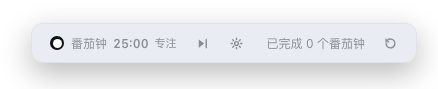
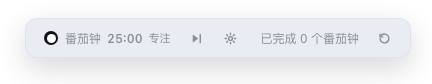
fix: keep reveal card height constant; light-theme preview with accurate colors

diff --git a/client.js b/client.js
@@ -318,7 +318,7 @@ window.__ModuleLoader__.load({
       'opacity:0;animation:dshPomoHalo 1.4s ease-out .55s both;}',
       '.dshPomo_box{position:relative;width:92px;height:92px;animation:dshPomoShake .58s ease-in-out both;}',
       '.dshPomo_boxOpened .dshPomo_box{animation:dshPomoShake .58s ease-in-out both,',
-      'dshPomoVanish .22s ease-in .58s both;}',
+      'dshPomoVanish .26s ease-in both;}',
       '.dshPomo_lid{position:absolute;left:50%;top:6px;width:84px;height:24px;margin-left:-42px;',
       'border-radius:9px 9px 5px 5px;background:var(--dsh-pomo-accent);',
       'box-shadow:inset 0 -3px 0 rgba(0,0,0,.16),inset 0 2px 0 rgba(255,255,255,.28);}',
@@ -332,10 +332,10 @@ window.__ModuleLoader__.load({
       'margin-left:-6px;background:rgba(255,255,255,.42);}',
       '.dshPomo_base::after{content:"";position:absolute;left:6px;right:6px;top:22px;height:12px;',
       'border-radius:4px;background:rgba(255,255,255,.42);}',
-      '.dshPomo_boxOpened .dshPomo_lid{animation:dshPomoLid .44s cubic-bezier(.25,.9,.35,1.15) .58s both;}',
+      '.dshPomo_boxOpened .dshPomo_lid{animation:dshPomoLid .44s cubic-bezier(.25,.9,.35,1.15) both;}',
       '.dshPomo_emoji{position:absolute;font-size:54px;line-height:1;opacity:0;',
       'filter:drop-shadow(0 8px 14px rgba(0,0,0,.2));',
-      'animation:dshPomoItem .56s cubic-bezier(.2,.9,.3,1.5) .68s both;}',
+      'animation:dshPomoItem .56s cubic-bezier(.2,.9,.3,1.5) both;}',
       '.dshPomo_spark{position:absolute;left:50%;top:50%;font-size:18px;line-height:1;opacity:0;',
       'animation:dshPomoSpark 1s ease-out var(--dsh-pomo-delay,0s) both;}',
       '.dshPomo_spark:nth-child(2n){font-size:13px;}',
@@ -348,6 +348,15 @@ window.__ModuleLoader__.load({
       'border:1px solid color-mix(in srgb,var(--dsh-pomo-accent) 34%,transparent);}',
       '.dshPomo_name{margin:10px 0 0;font-size:19px;font-weight:700;line-height:26px;}',
       '.dshPomo_desc{margin:5px 0 0;font-size:13px;line-height:19px;color:var(--dsw-alias-label-secondary);}',
+      /* Both states occupy the same grid cell, so the card never changes
+         height when the reveal stage switches. Only visibility cross-fades. */
+      '.dshPomo_reveal{display:grid;align-items:start;}',
+      '.dshPomo_reveal>*{grid-area:1/1;}',
+      '.dshPomo_waiting{margin:0;font-size:13px;line-height:19px;color:var(--dsw-alias-label-secondary);',
+      'transition:opacity .22s ease;}',
+      '.dshPomo_waitingGone{opacity:0;visibility:hidden;}',
+      '.dshPomo_body{transition:opacity .3s ease;}',
+      '.dshPomo_bodyPending{opacity:0;visibility:hidden;}',
       '.dshPomo_meta{display:flex;flex-wrap:wrap;align-items:center;justify-content:center;gap:6px;margin:12px 0 0;}',
       '.dshPomo_tag{padding:2px 8px;border-radius:999px;font-size:11px;font-weight:600;',
       'color:var(--dsw-alias-label-secondary);background:var(--dsw-alias-bg-layer-2);}',
@@ -383,7 +392,8 @@ window.__ModuleLoader__.load({
       '25%{opacity:1}100%{opacity:0;transform:translate(var(--dsh-pomo-x,0),var(--dsh-pomo-y,-58px)) scale(1.05)}}',
       '@media (prefers-reduced-motion:reduce){.dshPomo_box,.dshPomo_boxOpened .dshPomo_box,',
       '.dshPomo_boxOpened .dshPomo_lid,.dshPomo_emoji,.dshPomo_halo,.dshPomo_burst,.dshPomo_spark,',
-      '.dshPomo_card,.dshPomo_scrim{animation-duration:1ms!important;animation-delay:0ms!important;}}',
+      '.dshPomo_card,.dshPomo_scrim{animation-duration:1ms!important;animation-delay:0ms!important;',
+      '.dshPomo_body,.dshPomo_waiting{transition-duration:0ms!important;}}',
     ].join('');
 
     function PomodoroStyles() {
@@ -1048,14 +1058,19 @@ window.__ModuleLoader__.load({
             className: 'dshPomo_spark',
             'aria-hidden': true,
             style: {
-              '--dsh-pomo-delay': (0.72 + index * 0.05) + 's',
+              '--dsh-pomo-delay': (0.06 + index * 0.05) + 's',
               '--dsh-pomo-x': Math.round(Math.cos((index / SPARKS.length) * Math.PI * 2) * 66) + 'px',
               '--dsh-pomo-y': Math.round(Math.sin((index / SPARKS.length) * Math.PI * 2) * 54 - 10) + 'px',
             },
           }, spark))
           : null),
-      revealed
-        ? h('div', { className: 'dshPomo_body' },
+      h('div', { className: 'dshPomo_reveal' },
+        h('p', { className: 'dshPomo_waiting' + (revealed ? ' dshPomo_waitingGone' : '') },
+          t('box.waiting')),
+        h('div', {
+          className: 'dshPomo_body' + (revealed ? '' : ' dshPomo_bodyPending'),
+          'aria-hidden': revealed ? undefined : 'true',
+        },
           h('span', { className: 'dshPomo_tier' }, t('tier.' + pending.tier)),
           h('h2', { className: 'dshPomo_name', id: 'dshPomoBoxName' }, t('item.' + item.id + '.name')),
           h('p', { className: 'dshPomo_desc' }, t('item.' + item.id + '.description')),
@@ -1082,8 +1097,7 @@ window.__ModuleLoader__.load({
                 props.hidePomodoro();
               },
             }, t('action.archive'))),
-          h('p', { className: 'dshPomo_foot' }, t('box.subtitle')))
-        : h('p', { className: 'dshPomo_desc' }, t('box.waiting'))));
+          h('p', { className: 'dshPomo_foot' }, t('box.subtitle'))))));
     }
 
     /* ── client entry ────────────────────────────────────────────────── */

diff --git a/tools/render-preview.py b/tools/render-preview.py
@@ -5,8 +5,7 @@ Nothing here is hand-drawn. The page loads this repository's client.js,
 executes its real factory with a tiny React/DOM shim, and renders the real
 PomodoroDock, PomodoroBox and CollectionGrid components with the real CSS,
 real locale strings, real SVG icons and the real Harness theme tokens
-extracted from app.asar (light: body[data-ds-light-theme], dark:
-body[data-ds-dark-theme]).
+extracted from app.asar (body[data-ds-light-theme]).
 
 The GIF is a three-shot cut, all from those components:
 
@@ -27,9 +26,10 @@ import argparse
 import concurrent.futures
 import os
 import pathlib
-import shutil
 import subprocess
 import sys
+import tempfile
+import threading
 
 ROOT = pathlib.Path(__file__).resolve().parent.parent
 BUILD = ROOT / "build" / "preview-frames"
@@ -87,7 +87,7 @@ body{
   background:var(--dsw-alias-bg-overlay);
   border:1px solid var(--dsw-alias-border-l1);
   border-radius:12px;padding:5px 9px;
-  box-shadow:0 10px 30px rgba(0,0,0,.28);
+  box-shadow:0 10px 30px rgba(0,0,0,.16);
 }
 body.scene-dock #dockHost{top:50%;bottom:auto;transform:translateY(-50%) scale(1.55);}
 body.scene-box #dockHost{z-index:90;opacity:.6;}
@@ -97,7 +97,7 @@ body.scene-gallery #galleryHost{
   width:380px;box-sizing:border-box;padding:14px 16px;border-radius:16px;
   background:var(--dsw-alias-bg-overlay);
   border:1px solid var(--dsw-alias-border-l1);
-  box-shadow:0 20px 60px rgba(0,0,0,.45);
+  box-shadow:0 20px 60px rgba(0,0,0,.20);
 }
 body.scene-gallery #dockHost{bottom:26px;}
 body.scene-dockshot #dockHost{bottom:26px;}
@@ -269,11 +269,12 @@ MOCK_JS = r"""
         takePomodoro: noop, hidePomodoro: noop,
       }), document.body, false);
 
-      // Freeze every shipped keyframe at the requested time. Card / scrim /
-      // halo / burst start when the card mounts; the rest restart at the
-      // 680ms stage switch, exactly as the real component does.
+      // Freeze every shipped animation at the requested time. Scrim / card /
+      // halo / burst / shake start when the card mounts; lid / vanish / item
+      // / sparks start at the 680ms stage switch, as in the real component.
       document.body.offsetHeight;
-      const globalNames = ['dshPomoFade', 'dshPomoCard', 'dshPomoHalo', 'dshPomoBurst'];
+      const globalNames = ['dshPomoFade', 'dshPomoCard', 'dshPomoHalo',
+                           'dshPomoBurst', 'dshPomoShake'];
       const local = opts.t >= 680 ? opts.t - 680 : opts.t;
       document.getAnimations().forEach(function (anim) {
         anim.pause();
@@ -299,7 +300,7 @@ FRAME_TEMPLATE = """<!doctype html>
   const p = new URLSearchParams(location.hash.slice(1));
   const opts = {
     scene: p.get('scene') || 'box',
-    theme: p.get('theme') || 'dark',
+    theme: p.get('theme') || 'light',
     t: Number(p.get('t') || 0),
     item: p.get('item') || 'star',
     tier: p.get('tier') || 'legendary',
@@ -344,7 +345,11 @@ def build_html() -> pathlib.Path:
 def shoot(args) -> pathlib.Path:
     index, query, frame_path, out_dir, width, height = args
     out = out_dir / ("f_%03d.png" % index)
-    profile = out_dir / ("edge_%03d" % index)
+    # One profile per worker thread, reused across runs: a thread never runs
+    # two Edge processes at once, so there is no lock contention and no
+    # per-frame profile junk left in the repository.
+    profile = pathlib.Path(tempfile.gettempdir()) / (
+        "dsh_pomo_edge_" + threading.current_thread().name.replace(" ", "_"))
     cmd = [
         EDGE, "--headless=new", "--no-sandbox", "--disable-gpu",
         "--disable-dev-shm-usage", "--disable-software-rasterizer",
@@ -380,20 +385,20 @@ def make_shots():
     shots = []
     # Shot 1: the composer dock counting down (clock + ring both change).
     for i in range(6):
-        shots.append(q(scene="dock", theme="dark", running=1,
+        shots.append(q(scene="dock", theme="light", running=1,
                        remaining=1500000 - i * 150000, owned="", boxes=0, total=0))
     # Shot 2: two blind boxes, epic then legendary.
     for item, tier, owned, boxes in [("crystal", "epic", "crystal", 1),
                                      ("star", "legendary", "crystal,star", 2)]:
         for i in range(12):
-            shots.append(q(scene="box", theme="dark", t=200 + i * 170,
+            shots.append(q(scene="box", theme="light", t=200 + i * 170,
                            item=item, tier=tier, owned=owned, boxes=boxes, total=boxes))
     # Shot 3: the real gallery lighting up the two finds.
     steps = ["", "crystal", "crystal,star", "crystal,star",
              "crystal,star", "crystal,star", "crystal,star", "crystal,star"]
     for owned in steps:
         selected = "star" if "star" in owned else ("crystal" if owned else "")
-        shots.append(q(scene="gallery", theme="dark", owned=owned,
+        shots.append(q(scene="gallery", theme="light", owned=owned,
                        selected=selected, boxes=2, total=2))
     return shots
 
@@ -405,6 +410,8 @@ def main() -> int:
     ap.add_argument("--out", default=str(ROOT / "docs" / "preview.gif"))
     ap.add_argument("--dock-out", default=str(ROOT / "docs" / "dock.png"))
     ap.add_argument("--workers", type=int, default=6)
+    ap.add_argument("--reassemble", action="store_true",
+                    help="reuse existing PNG frames; only redo GIF quantisation")
     args = ap.parse_args()
 
     if not os.path.exists(EDGE):
@@ -414,18 +421,25 @@ def main() -> int:
 
     frame_path = build_html()
     out_dir = BUILD / "png"
-    if out_dir.exists():
-        shutil.rmtree(out_dir)
-    out_dir.mkdir(parents=True)
+    out_dir.mkdir(parents=True, exist_ok=True)
+    if not args.reassemble:
+        for stale in out_dir.glob("f_*.png"):
+            stale.unlink()
 
     shots = make_shots()
-    jobs = [(i, query, frame_path, out_dir, WIDTH, HEIGHT) for i, query in enumerate(shots)]
-    # Static dock.png stays on the light theme, as in the README install section.
-    dock_query = q(scene="dockshot", theme="light", running=0, remaining=1500000,
-                   owned="", boxes=0, total=0)
-    jobs.append((999, dock_query, frame_path, out_dir, 460, 500))
-    with concurrent.futures.ThreadPoolExecutor(max_workers=args.workers) as pool:
-        list(pool.map(shoot, jobs))
+    missing = [i for i in range(len(shots))
+               if not (out_dir / ("f_%03d.png" % i)).exists()]
+    if args.reassemble and (missing or not (out_dir / "f_999.png").exists()):
+        print("reassemble needs all frames, missing: %s" % missing, file=sys.stderr)
+        return 2
+    if not args.reassemble:
+        jobs = [(i, query, frame_path, out_dir, WIDTH, HEIGHT) for i, query in enumerate(shots)]
+        # The static dock.png uses the same light theme as the GIF.
+        dock_query = q(scene="dockshot", theme="light", running=0, remaining=1500000,
+                       owned="", boxes=0, total=0)
+        jobs.append((999, dock_query, frame_path, out_dir, 460, 500))
+        with concurrent.futures.ThreadPoolExecutor(max_workers=args.workers) as pool:
+            list(pool.map(shoot, jobs))
 
     frames = []
     for i in range(len(shots)):
@@ -440,8 +454,16 @@ def main() -> int:
     dock.save(dock_path)
     print("wrote %s (%dx%d)" % (dock_path, dock.width, dock.height))
 
-    # One shared palette keeps the GIF small and avoids colour flicker.
-    palette = frames[len(frames) // 2].copy().quantize(colors=128, method=Image.Quantize.MEDIANCUT)
+    # One shared palette avoids colour flicker, but sampling it from a single
+    # frame at 128 colours dropped rare accents: the blue gem went grey while
+    # the gold star survived. Sample a montage of every frame at 256 colours.
+    thumb_w, thumb_h, cols = 128, 105, 6
+    rows = (len(frames) + cols - 1) // cols
+    montage = Image.new("RGB", (thumb_w * cols, thumb_h * rows))
+    for k, frame in enumerate(frames):
+        montage.paste(frame.resize((thumb_w, thumb_h), Image.LANCZOS),
+                      ((k % cols) * thumb_w, (k // cols) * thumb_h))
+    palette = montage.quantize(colors=256, method=Image.Quantize.MEDIANCUT)
     quant = [f.quantize(palette=palette, dither=Image.Dither.NONE) for f in frames]
     durations = [args.step] * len(quant)
     durations[-1] = 1000
@@ -449,11 +471,6 @@ def main() -> int:
     out.parent.mkdir(parents=True, exist_ok=True)
     quant[0].save(out, save_all=True, append_images=quant[1:],
                   duration=durations, loop=0, optimize=True, disposal=2)
-
-    # Edge creates a user-data-dir per frame; keep only the PNGs locally.
-    for profile in out_dir.glob("edge_*"):
-        if profile.is_dir():
-            shutil.rmtree(profile, ignore_errors=True)
 
     print("wrote %s (%d frames, %dx%d, %d bytes)" % (
         out, len(quant), quant[0].width, quant[0].height, out.stat().st_size))

diff --git a/README.md b/README.md
@@ -7,15 +7,15 @@
 ![MIT](https://img.shields.io/badge/license-MIT-green)
 ![DSH](https://img.shields.io/badge/DeepSeek%20Harness-Web%20UI-blue)
 
-![深色主题演示：输入框下方的番茄钟 → 连开两个盲盒（史诗 / 传说）→ 图鉴点亮](docs/preview.gif)
+![浅色主题演示：输入框下方的番茄钟 → 连开两个盲盒（史诗 / 传说）→ 图鉴点亮](docs/preview.gif)
 
-> 上面不是示意图：[`tools/render-preview.py`](tools/render-preview.py) 直接执行本仓库的 `client.js`，渲染真实的 `PomodoroDock` / `PomodoroBox` / `CollectionGrid` 组件，用真实 CSS keyframes、真实中文词典和 Harness 深色主题 token 逐帧截图合成。三段分镜：计时 → 连开两个不同稀有度的盲盒 → 图鉴点亮刚开出的两件藏品。
+> 上面不是示意图：[`tools/render-preview.py`](tools/render-preview.py) 直接执行本仓库的 `client.js`，渲染真实的 `PomodoroDock` / `PomodoroBox` / `CollectionGrid` 组件，用真实 CSS keyframes、真实中文词典和 Harness 浅色主题 token 逐帧截图合成。三段分镜：计时 → 连开两个不同稀有度的盲盒 → 图鉴点亮刚开出的两件藏品。
 
 ## 功能
 
 - **番茄钟**：专注 15 / 25 / 45 / 60 分钟，短休息与长休息 3 / 5 / 10 / 15 分钟；开始、暂停、继续、跳过、重置。
 - **长休息节奏**：每完成 4 个专注段自动进入一次长休息（时长可配）。
-- **盲盒**：只有真正走完的专注段才会发盒；跳过不会。开箱有摇晃、开盖、物件弹出的动画，并适配 `prefers-reduced-motion`。
+- **盲盒**：只有真正走完的专注段才会发盒；跳过不会。开箱有摇晃、开盖、物件弹出的动画，并适配 `prefers-reduced-motion`；等待与结果两态共用同一网格单元，卡片高度恒定，切换只做淡入。
 - **15 件藏品 / 4 个稀有度**：普通 60%、稀有 25%、史诗 12%、传说 3%；档位内等概率。每次独立抽取，重复是正常的。
 - **图鉴**：设置面板里的 5×3 网格，已收集的亮起并按稀有度着色；点格子查看名称、稀有度和描述，未发现的显示为锁定；集齐 15 件后显示「已集齐」，开箱卡也会带上「图鉴已集齐」。
 - **双语与主题**：中英文词典；颜色、圆角、阴影全部走 Harness Theme token，跟随明暗主题。
@@ -171,7 +171,7 @@ Pomodoro Blind Box is a DeepSeek Harness Web UI plugin that puts a focus timer u
 - **Install**: `dsh plugin --profile desktop add dsh-pomodoro-box` (npm), or attach the prebuilt tarball from the latest GitHub release if you would rather not go through npm; the market index below and installing the cloned folder as a bundle both work too.
 - **Data**: everything lives in `localStorage` under `dsh.pomodoro-box.v1`; the plugin makes no network requests.
 - **Dev**: no build step. `client.js` is loaded as a Client module via `window.__ModuleLoader__`; keep the runtime `EN`/`ZH` dictionaries in sync with `locale/*.json`.
-- **Preview**: the GIF above is a three-shot cut rendered frame-by-frame from the shipped `client.js` by `tools/render-preview.py` — the composer dock, two blind boxes (epic / legendary), then the collection gallery lighting up. Real components, real CSS keyframes, real locale strings and dark-theme tokens; not a mockup.
+- **Preview**: the GIF above is a three-shot cut rendered frame-by-frame from the shipped `client.js` by `tools/render-preview.py` — the composer dock, two blind boxes (epic / legendary), then the collection gallery lighting up. Real components, real CSS keyframes, real locale strings and light-theme tokens; not a mockup.
 
 ## License
 

diff --git a/CHANGELOG.md b/CHANGELOG.md
@@ -2,8 +2,10 @@
 
 ## Unreleased
 
-- README 换成深色主题的三段分镜动图：输入框下方的计时条 → 连开两个不同稀有度的盲盒（史诗 / 传说）→ 图鉴点亮刚开出的藏品；另附输入框下方 dock 的浅色截图。两张图都由 `tools/render-preview.py` 直接执行 `client.js`，渲染真实组件（`PomodoroDock` / `PomodoroBox` / `CollectionGrid`）、真实 CSS keyframes、真实词典和 Harness 主题 token，不是手绘示意图。
-- `tools/render-preview.py` 改为按场景参数化（dock / box / gallery），用 `body[data-ds-dark-theme]` 的 app.asar 真实色板；构建产物 `build/` 加入 `.gitignore`，脚本会清理浏览器临时目录。
+- 修复开箱卡片的高度跳变：`client.js` 把「盲盒正在打开…」和结果区放进同一个 grid 单元（`.dshPomo_reveal`），两态只切换 `visibility` / `opacity`，卡片从挂载起高度恒定；`prefers-reduced-motion` 下过渡也归零。
+- 理顺开箱时序：去掉 `dshPomoVanish` / `dshPomoLid` 的 0.58s 延迟和 `dshPomoItem` 的 0.68s 延迟，火花延迟从 0.72s 降到 0.06s。切到结果时礼盒立刻开盖、藏品立刻弹出，不再有「结果文字已出现、礼盒又摇一次」的空档。
+- README 动图回到浅色主题（`body[data-ds-light-theme]`），保留三段分镜构图；深色版宝石与礼盒对比过强、整体发闷。
+- `tools/render-preview.py`：GIF 调色板由「单帧 128 色」改为「全部帧拼图采样 256 色」，修复 💎 的蓝色被量化成灰白；浏览器 profile 改为按 worker 线程复用系统临时目录，工作区只保留 PNG，并支持 `--reassemble` 用已有帧重调色板。构建产物 `build/` 已加入 `.gitignore`。
 
 ## 1.2.2
 
